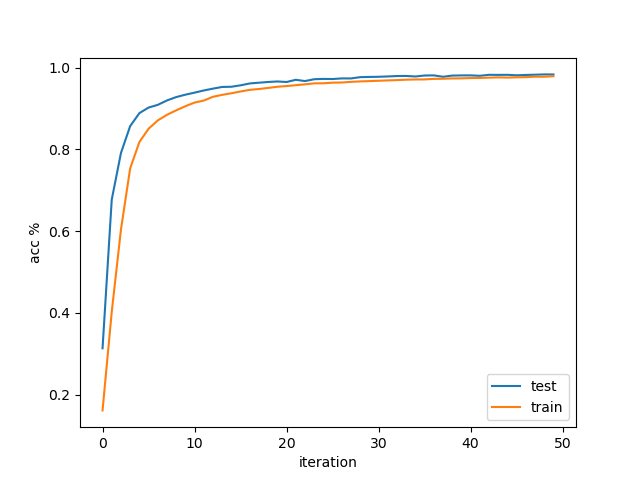
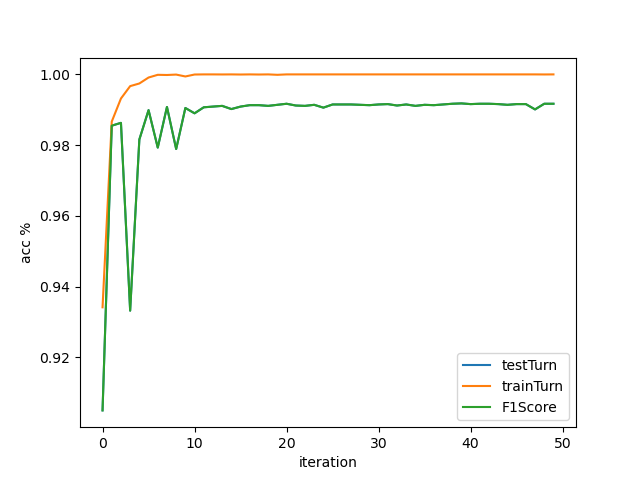
f1

diff --git a/netTrain.py b/netTrain.py
@@ -1,7 +1,7 @@
 import os.path
-
+import numpy as np
 import torch
-from pyexpat import model
+from sklearn.metrics import f1_score
 from torch.utils.data import DataLoader
 from torchvision import transforms
 from matplotlib import pyplot as plt
@@ -24,7 +24,7 @@ from model.MLPModel import MLP
 from model.leNetModel import LeNet1, LeNet4, LeNet5
 from model.resNetModel import ResNet18, ResNet34, ResNet50
 
-testFramwork = ResNet50
+testFramwork = ResNet18
 
 """采用的优化器"""
 opt = optim.SGD
@@ -39,18 +39,20 @@ def testTurn(model, loader):
     # validation和test过程不需要反向传播
     model.eval()
     # 取测试数据
+    y_m,eta_m=[],[]
     for X, y in loader:
         X, y = X.to(device), y.to(device)
 
         with torch.no_grad():
             outputs = model(X)  # 计算测试数据的输出
             # 计算出out在第一维度上最大值对应编号，得模型的预测值
-            # 计算正确率
             _, eta = torch.max(outputs.data, dim=1)
         # 是否正确？
         correct += torch.eq(eta, y).float().sum().item()
+        y_m = np.append(y_m, y.cpu())
+        eta_m=np.append(eta_m,eta.cpu())
 
-    return correct / len(loader.dataset)
+    return correct / len(loader.dataset),f1_score(y_m,eta_m,average='micro')
 
 
 def trainTurn(model, loader, optimizer, epoch):
@@ -92,8 +94,8 @@ def main():
 
     t0 = time.time()
     # 加载数据集，指定训练或测试数据，指定于处理方式
-    trainDataset = DealDataset(os.path.abspath(r'.\dataset'), "trainTurn-images-idx3-ubyte.gz",
-                               "trainTurn-labels-idx1-ubyte.gz",
+    trainDataset = DealDataset(os.path.abspath(r'.\dataset'), "train-images-idx3-ubyte.gz",
+                               "train-labels-idx1-ubyte.gz",
                                transform=transforms.ToTensor())
     testDataset = DealDataset(os.path.abspath(r'.\dataset'), "t10k-images-idx3-ubyte.gz", "t10k-labels-idx1-ubyte.gz",
                               transform=transforms.ToTensor())
@@ -106,25 +108,27 @@ def main():
     optimizer = opt(net.parameters(), learning_rate)
     bestAcc = 0
 
-    accListTest, accListTrain = [], []
+    accListTest, accListTrain,f1 = [], [],[]
     for e in range(EPOCH):
         net.train()
         accTrain = trainTurn(net, train_dataloader, optimizer, e)
         print()
-        accTest = testTurn(net, test_dataloader)
+        accTest,f1Test = testTurn(net, test_dataloader)
         if accTest > bestAcc:
             bestAcc = accTest
             # torch.save(net.state_dict(), save_path)
         # else:
         #     net.load_state_dict(torch.load(save_path))
-        print('[epoch %d]: trainTurn accuracy: %.2f %%, testTurn accuracy: %.2f %%,best: %.2f %%' % (
+        print('[epoch %d]: train accuracy: %.2f %%, test accuracy: %.2f %%,best: %.2f %%' % (
             e + 1, 100 * accTrain, 100 * accTest, 100 * bestAcc))
         accListTest.append(accTest)
         accListTrain.append(accTrain)
+        f1.append(f1Test)
 
     print(time.time() - t0)
     plt.plot(accListTest, label='testTurn')
     plt.plot(accListTrain, label='trainTurn')
+    plt.plot(f1, label='F1Score')
     plt.legend()
     plt.xlabel('iteration')
     plt.ylabel('acc %')
